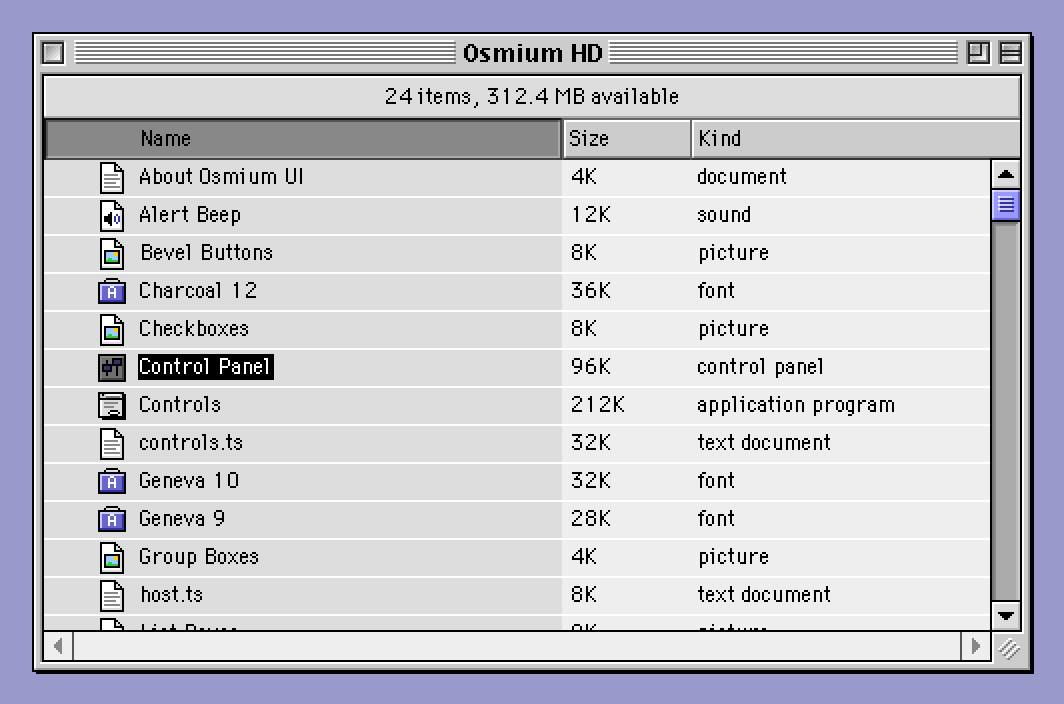
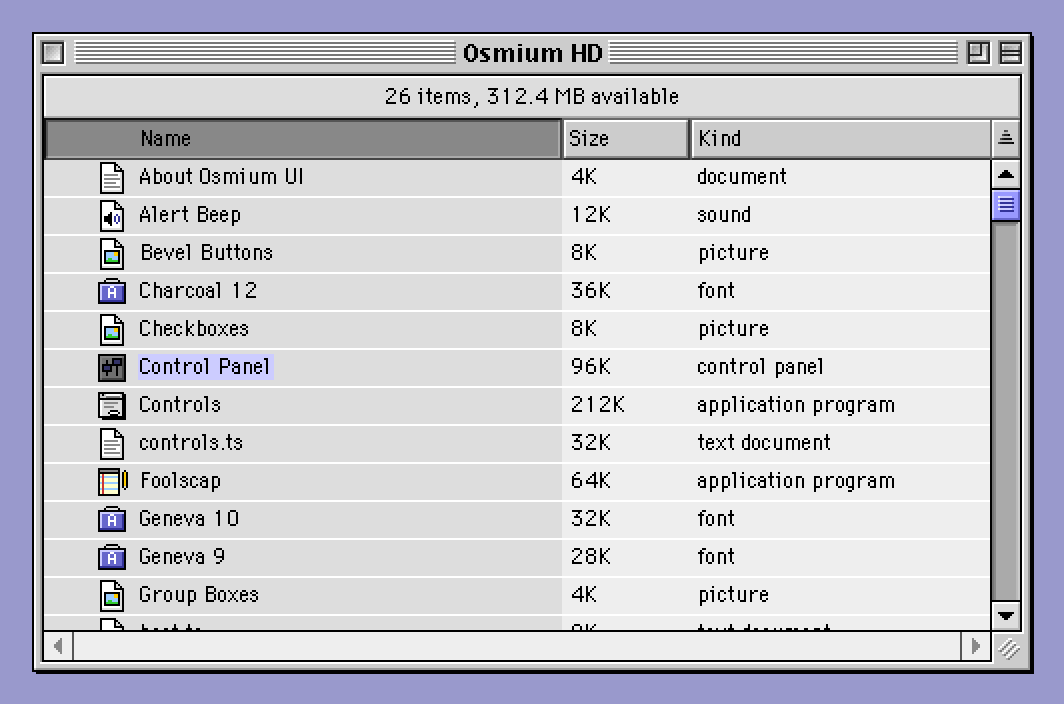
Document the text view, menu keys and Foolscap
The README gains Text view and Menu bar sections (the APIs, what the
browser allows with the clipboard, and what differs from TextEdit and
the Mac OS 8 menu bar), Geneva 12 among the fonts, a demo tour that
covers every window, and drops keyboard equivalents from "Not included
yet". The CHANGELOG lists the additions under Unreleased.

The demo's desktop and Finder images are regenerated: the Finder lists
two more items and the desktop two more icons. A new image shows
Foolscap's Read Me. Rendered the same way at a6e98aa, before this
work, the controls and appearance images reproduce the committed ones
with 0 differing pixels, and they stay; the panel image, already out
of date there, is left for a separate refresh. The Read Me also points
to the Apple menu, and the About window lists Geneva 12.

Claude-Session: https://claude.ai/code/session_014fhnVpnnDZT2sjDkM4thWd

diff --git a/demo/documents.ts b/demo/documents.ts
@@ -23,7 +23,7 @@ Windows
 Drag a window by its title bar. The close box (left) puts it away; its desktop icon brings it back. The collapse box (far right) folds it up to its title bar. The Osmium HD and Foolscap windows also have a zoom box and a grow box in their bottom-right corner. Windows behind the front one draw inactive: gray frame, no stripes, no boxes. A click in one brings it forward. Special > Clean Up puts every window back where it started.
 
 The menu bar
-Menus stay open after a click and follow the pointer, or you can drag to an item and let go. Items with a keyboard equivalent show it at the right: hold down the Command key (Control on Windows and Linux) and type the letter. While a Foolscap window is in front, the menu bar holds Foolscap's own menus; click the desktop or another window and the Finder's come back.
+Menus stay open after a click and follow the pointer, or you can drag to an item and let go. Items with a keyboard equivalent show it at the right: hold down the Command key (Control on Windows and Linux) and type the letter. While a Foolscap window is in front, the menu bar holds Foolscap's own menus; click the desktop or another window and the Finder's come back. The crystal at the left end of the menu bar is the Apple menu: it lists every window in the demo, whichever application is in front.
 
 Balloon Help
 Choose Show Balloons from the Help menu, then rest the pointer on a control, a window's title bar or a desktop icon. Choose Hide Balloons to stop.

diff --git a/demo/about.ts b/demo/about.ts
@@ -12,7 +12,7 @@ const FIELDS: readonly [label: string, value: string][] = [
   ["Kind", "user interface kit"],
   ["Version", OSMIUM_VERSION],
   ["License", "The Unlicense (public domain)"],
-  ["Fonts", "Charcoal 12, Geneva 10, Geneva 9"],
+  ["Fonts", "Charcoal 12, Geneva 12, 10 and 9"],
   ["Where", "github.com/L-K-M/osmium-ui"],
 ];
 

diff --git a/README.md b/README.md
@@ -6,7 +6,7 @@
 The Mac OS 8 look, pixel for pixel, for web pages and WKWebView apps.
 
 <p align="center">
-  <img src="docs/demo@2x.png" width="1024" alt="The Osmium UI demo: a Mac OS 8 desktop with a dialog full of controls, a Finder list view, a control panel and an About window">
+  <img src="docs/demo@2x.png" width="1024" alt="The Osmium UI demo: a Mac OS 8 desktop with a dialog full of controls, a Finder list view, a control panel, an About window and desktop icons">
 </p>
 
 Osmium UI recreates the classic Mac OS 8 appearance in HTML and CSS:
@@ -30,7 +30,9 @@ information window (class `osm-info`, whose text dims when inactive).
 - Push buttons, including the default button's ring, pressed and dimmed.
 - Checkboxes and sliders with tick marks.
 - Pop-up buttons with their menus, and separators in them.
-- The menu bar, with pull-down menus.
+- The menu bar, with pull-down menus, check marks and keyboard
+  equivalents, and menus an application swaps in while its window is in
+  front.
 - Group boxes and bevel buttons.
 - Tab controls, measured from Mac OS 8.5's Appearance control panel.
 - Scroll bars, vertical and horizontal, and list boxes.
@@ -40,6 +42,9 @@ information window (class `osm-info`, whose text dims when inactive).
   of rows kept up to date by key.
 - Progress bars, separators, wells, and label/value rows.
 - Edit text fields, one-line and multi-line.
+- Document text views: a document window's wrapped text with its scroll
+  bar, as TeachText and SimpleText show it, with TextEdit's undo, its
+  highlighting and read-only documents.
 - Balloon Help: help balloons measured from Mac OS 8.0, with the Help
   menu's Show Balloons / Hide Balloons command.
 - Alert boxes: stop, caution and note alerts, modal or movable. The
@@ -51,10 +56,12 @@ information window (class `osm-info`, whose text dims when inactive).
 colors, from Apple's own tables for Mac OS 8.0 and 8.5, or any color
 (see [Accent and highlight colors](#accent-and-highlight-colors)).
 
-**Fonts.** Charcoal 12, Geneva 10 and Geneva 9 as bitmap strikes. They
-are compiled into TrueType fonts in the browser at startup, with
-QuickDraw-style synthesized bold for Charcoal 12 and Geneva 10, so
-text renders with the original glyphs on any platform.
+**Fonts.** Charcoal 12, Geneva 12, Geneva 10 and Geneva 9 as bitmap
+strikes. They are compiled into TrueType fonts in the browser at
+startup, with QuickDraw-style synthesized bold, so text renders with
+the original glyphs on any platform. Geneva 12 was captured for ASCII
+and ten punctuation marks (curly quotes, bullet, ellipsis, dashes, © and
+™); other characters fall through to the next font.
 
 **Behavior.**
 - Press tracking: releasing outside a control cancels.
@@ -109,14 +116,27 @@ npm run demo
 
 This builds the demo and serves it locally: a Mac OS 8 desktop with a
 dialog full of controls, a Finder list view, a control panel, a tabbed
-Appearance window and a File Sharing window full of edit text (open
-them from their desktop icons), and an About window.
+Appearance window that sets the accent and highlight colors, a File
+Sharing window full of edit text, an Alerts window and an About window
+(open them from their desktop icons or the crystal menu at the left of
+the menu bar). Double-click the Read Me icon for a tour: it lists every
+part of the kit and where the demo shows it.
+
 You can drag the windows, click to bring them to the front, close them
-and windowshade them, and zoom and resize the Finder window.
-Choose Show Balloons from the Help menu, then rest the pointer on a
-control, a window's title bar or a desktop icon to see its help balloon.
-The Alerts window (open it from its desktop icon) and Special > Empty
-Trash… bring up alerts.
+and windowshade them, and zoom and resize the Finder and Foolscap
+windows. In the Finder window, click a column header to sort, the
+button above the scroll bar to reverse the order, and drag the lines
+between headers to resize columns. Choose Show Balloons from the Help
+menu, then rest the pointer on a control, a window's title bar or a
+desktop icon to see its help balloon. The Alerts window and Special >
+Empty Trash… bring up alerts.
+
+Foolscap (its desktop icon) is a small text editor in the manner of
+TeachText, built on the text view. While its window is in front the
+menu bar shows its own menus, with keyboard equivalents: New, Open…,
+Close (which asks about unsaved changes), Save and Save As… (which
+download a text file), Undo, Cut, Copy, Paste, and fonts and sizes. The
+Read Me is a read-only document: typing in it brings up an alert.
 
 On a Mac with the Xcode command line tools, the same pages run as
 native windows:
@@ -194,7 +214,7 @@ window.
 | Checkbox | `<label class="osm-checkbox"><input type="checkbox"> Title</label>` | `trackHighlight(label)` |
 | Slider | `<div class="osm-slider"><input type="range" min="0" max="100"></div>` (125px wide, 100 steps) | native input |
 | Pop-up button | `<button class="osm-popup">`, with an optional `<label class="osm-popup-title">` | `mountPopup(el, { items, selected, onChange })`; put `MENU_SEPARATOR` among the items for a dividing line |
-| Menu bar | a `<div>` along the top of the page | `mountMenuBar(el, [{ title, items: () => [{ title, action }, MENU_SEPARATOR, …] }])`; an item without an `action` is dimmed, and `icon` names a 16x16 sprite to show instead of a title |
+| Menu bar | a `<div>` along the top of the page | `mountMenuBar(el, [{ title, items: () => [{ title, action, key }, MENU_SEPARATOR, …] }])`; an item without an `action` is dimmed, `key` is its keyboard equivalent, `checked` draws a check mark, and `icon` names a 16x16 sprite to show instead of a title; see [Menu bar](#menu-bar) |
 | List box | `<div>` with a height | `mountList(el, { rowHeight, label, onSelect })`, then `setRows(rows)`. `scrollbars: "both"` adds a horizontal bar (give the rows a `min-width`), and `header` keeps a list view's column headers scrolled with the rows |
 | Scroll bar | a positioned `host` with a scrolling child `view` that leaves 15px on the right (or, for a horizontal bar, at the bottom) and hides its native scroll bars (as `mountList` sets up) | `attachScrollbar(host, view, lineHeight)`, or `attachScrollbar(host, view, step, "horizontal")` |
 | Bevel button | `<button class="osm-bevel">`, a 32x32 icon in `--osm-icon`, `osm-selected` for pushed in, a `.osm-bevel-caption` below. 40x40 as in Monitors & Sound; set an even `width` for wider ones, such as Desktop Pictures' 54px | `trackPress(el, action)` |
@@ -207,13 +227,15 @@ window.
 | Label/value rows | `<div class="osm-fields">` of `.osm-label` and value pairs | none |
 | Separator, well | `<div class="osm-separator">`, `<div class="osm-well">` | none |
 | Edit text | `<input class="osm-edit">` (22px), add `osm-compact` for 20px; `<div class="osm-edit-area"><textarea></textarea></div>` for several lines | native input; `mountTextArea(el)` adds a scroll bar to a multi-line field; `setEnabled(field, on)` |
+| Text view | a `<div>` filling a document window's content | `mountTextView(el, { label, text, mode, font })`; see [Text view](#text-view) |
 | Help balloon | none: attach it to any element | `attachBalloon(el, { content })`, and `balloonMenuItem()` in a Help menu; see [Balloon Help](#balloon-help) |
 | Alert | built for you | `showAlert({ kind, message, explanation, buttons })`, see [Alerts](#alerts) |
 
 Disable a checkbox, slider or edit text with `setEnabled(input, false)`
 so the whole control dims. The fonts are available as `osm-system` (Charcoal
-12), `osm-small` (Geneva 10) and `osm-caption` (Geneva 9), or as the
-`--osm-font-*` custom properties.
+12), `osm-small` (Geneva 10), `osm-caption` (Geneva 9) and `osm-document`
+(Geneva 12 on 16px lines, the document font), or as the `--osm-font-*`
+custom properties.
 
 The demo's source (`demo/`) uses every control. It's the best place
 to see complete markup.
@@ -297,6 +319,138 @@ matches Mac OS 9.0 Date Formats. Some details differ:
   text.
 - Selected text is white on 010101 rather than black: WebKit lightens
   an opaque black selection to 333333.
+
+### Text view
+
+<p align="center">
+  <img src="docs/foolscap.png" width="512" alt="A document window titled Read Me: Geneva 12 text wrapped to the window, a phrase selected, a vertical scroll bar and a blank strip along the bottom beside the grow box">
+</p>
+
+`mountTextView` turns an element into a document window's text, the way
+TeachText and SimpleText show it in Mac OS 8: white, wrapped to the
+window's width with no horizontal scrolling, a vertical scroll bar whose
+black edges lie on the content's edges, and a blank strip along the
+bottom that leaves the corner to the window's grow box. Give it the
+whole content area of a window:
+
+```ts
+import { mountTextView, mountWindow, showAlert } from "osmium-ui";
+
+const win = mountWindow(el, { title: "Read Me", onGrow, onZoom, onClose });
+const host = document.createElement("div");
+host.style.cssText = "position: absolute; inset: 0";
+win.content.append(host);
+const view = mountTextView(host, {
+  label: "Read Me",
+  text: readMe,
+  mode: "read-only",       // or "editable" (the default)
+  font: "geneva-12",       // "geneva-10", "geneva-9", "charcoal-12"
+  maxLength: 32767,        // TextEdit's own limit
+  onChange: () => { dirty = true; },
+  onLimit: () => showAlert({ kind: "stop", message: "The document is full." }),
+  onRejectedEdit: () => showAlert({ kind: "stop", modality: "movable",
+    message: "This document can only be read." }),
+});
+```
+
+The text is a native `<textarea>` (`view.textarea`), so input methods,
+the browser's clipboard shortcuts and assistive technology work as in
+any text field. The view adds what a TeachText-style application needs
+for its Edit menu:
+
+- `undo()` is TextEdit's single level of undo, as a Mac OS 8
+  application's Undo command offers it: it takes back the last edit (a
+  run of typing, a cut, a paste, a clear, a drop) and redoes it when
+  chosen again. Command-Z (Control-Z) and the browser's own Undo come to
+  it too. `canUndo` says whether there is anything to undo. `setText`
+  starts over.
+- `cut()`, `copy()` and `paste()` use the clipboard as far as the
+  browser allows, and reject rather than pretend when it refuses: a
+  script may write to the clipboard only while handling the reader's own
+  click or keystroke, and may read it only with the reader's permission
+  (a prompt, or a Paste button of the browser's own). Chromium asked for
+  that permission in testing, and its headless mode leaves the prompt
+  unanswered. The keyboard's Command-X, C and V are the browser's own
+  and need no permission, so a menu bar leaves them to it (see
+  `keyDispatch` below). `clear()` deletes the selection, `selectAll()`
+  selects everything, and `hasSelection` says whether anything is
+  selected.
+- `"read-only"` shows a document the way SimpleText shows its read-only
+  (ttro) documents: no caret, and every attempt to type goes to
+  `onRejectedEdit`, where SimpleText puts up a stop alert. Unlike
+  SimpleText, its text can still be selected and copied, which readers
+  and assistive technology need.
+- A double-click selects a word without the space after it, as TextEdit
+  does, in browsers that would take the space too.
+- `setMode`, `setFont` and `setText` let one view show one document
+  after another.
+
+The geometry is measured from SimpleText 1.4 on Mac OS 8.0 in an
+emulator: the text rectangle 4px inside the content area and 4px short
+of the scroll bar and the strip, the first glyph 1px inside it, 16px
+lines. Rendered in the same window with Geneva 12, typed text, a wrapped
+long line, a window resized narrower and an inactive window's framed
+selection match the captures with 0 differing pixels. In an inactive
+window the text stays black, the caret goes, the scroll bar is blank
+(white inside its 55 edges) and a selection is framed in a 1px outline,
+TextEdit's outline highlighting.
+
+What differs from TextEdit:
+
+- The browser draws the caret, one pixel right of TextEdit's.
+- While the text has the keyboard the browser draws the selection too:
+  it covers only the selected characters, where TextEdit starts a line's
+  highlight at the text rectangle's left edge and runs it on to the
+  right edge when the selection goes past the line's end. The view draws
+  TextEdit's region itself where the browser draws none: framed in an
+  inactive window, and filled while a menu has the keyboard.
+- The outline is black whatever the highlight color; it was captured
+  only with the Black & White highlight. The bottom strip's line turns
+  55 in an inactive window, which wasn't captured.
+- Tab moves the keyboard to the next control, as in any web page, where
+  TextEdit types a tab. Plain text only: no styles.
+
+### Menu bar
+
+`mountMenuBar` returns a handle whose `setMenus` replaces the menus, so
+an application can show its own while its window is in front, as the
+demo's Foolscap does. A menu item's `key` is its keyboard equivalent,
+drawn after the command key symbol in the columns SimpleText's menus use
+in Mac OS 8.0:
+
+```ts
+const bar = mountMenuBar(el, finderMenus);
+bar.setMenus([
+  { title: "Edit", items: () => [
+    { title: "Undo", key: "Z", ...(view.canUndo ? { action: view.undo } : {}) },
+    MENU_SEPARATOR,
+    // Typed while the text has the keyboard, Command-C stays the
+    // browser's own copy, which needs no clipboard permission.
+    { title: "Copy", key: "C", action: () => void view.copy(),
+      keyDispatch: textHasKeyboard() ? "browser" : "action" },
+    { title: "Select All", key: "A", action: () => view.selectAll() },
+  ] },
+  { title: "Size", items: () => [
+    { title: "12", checked: true, action: () => setSize(12) },
+  ] },
+]);
+```
+
+Command and the key (Control where there is no Command key; pass
+`{ commandKey: "meta" }` or `"control"` as the third argument to choose)
+chooses the item and flashes its menu's title. Letters match without
+Shift; another character matches as typed. Only an enabled item takes
+its key, so a dimmed item, and any key no item claims, leaves the
+keystroke to the browser and to text fields. Keys a control already
+handled (`preventDefault`), keys typed while an alert is up and keys
+aimed at an `inert` menu bar (under your own modal dialog) are left
+alone too. Browsers keep some keys for themselves and never pass them
+to a page: in Chromium, for one, Control-N, Control-T and Control-W
+(Command on a Mac) open and close windows and tabs.
+
+Menu bar menus leave 9px after an item without a key and fit a key
+equivalent in 32px more, as SimpleText's File, Edit and Help menus do;
+rendered, they match those menus with 0 differing pixels.
 
 ### Balloon Help
 
@@ -737,7 +891,7 @@ ResizeObserver and CSS `border-image`.
 
 ## Not included yet
 
-Radio buttons and keyboard equivalents shown in menus.
+Radio buttons.
 
 ## Development
 

diff --git a/CHANGELOG.md b/CHANGELOG.md
@@ -2,6 +2,59 @@
 
 ## Unreleased
 
+- Add text views (`mountTextView`): a document window's text as
+  TeachText and SimpleText show it in Mac OS 8, on a native textarea.
+  White, wrapped to the width with no horizontal scrolling, a vertical
+  scroll bar over the content's edges and a blank 15px strip along the
+  bottom beside the grow box. The geometry is measured from SimpleText
+  1.4 on Mac OS 8.0 in an emulator; typed text, a wrapped long line, a
+  resized window and an inactive window's framed selection render with
+  0 differing pixels against the captures. The view adds TextEdit's
+  single-level undo (by edit groups, undoing again redoes; Command-Z and
+  the browser's Undo go to it), `"read-only"` documents that report
+  typing to `onRejectedEdit`, a `maxLength` reported to `onLimit`, cut,
+  copy, paste and clear that reject when the browser refuses the
+  clipboard, double-click selection without the trailing space, and
+  TextEdit's highlight where the browser draws none: an outline in an
+  inactive window, a fill while a menu has the keyboard. Not TextEdit:
+  the browser's caret sits 1px right, the browser's own selection
+  doesn't run to the text rectangle's edges, Tab moves the focus, the
+  text is plain, and a read-only document's text can be selected and
+  copied. Not captured: the inactive bottom strip (55, like the frame)
+  and the outline with a colored highlight (black).
+- Add Geneva 12 (`--osm-font-document`, `.osm-document`), the document
+  font of TeachText and SimpleText, extracted from SimpleText 1.4's
+  text in Mac OS 8.0: ASCII and ten punctuation marks; a separately
+  captured line matches with 0 differing pixels. Its leading is folded
+  into the descent for TextEdit's 16px line. `installOsmium` registers
+  it with synthesized bold.
+- Menu bars take keyboard equivalents: a `MenuItem`'s `key` is drawn
+  after the command key symbol, as SimpleText 1.4's menus draw it, and
+  Command-key (Control-key where there is no Command key; `commandKey`
+  chooses) chooses the item, flashing its title. Only enabled items
+  claim keys, so browser shortcuts and text fields keep the rest; keys
+  a control handled, keys under an alert and keys aimed at an inert
+  menu bar are left alone. `keyDispatch: "browser"` leaves a key to the
+  browser (Cut, Copy and Paste in a text field). Items can show a check
+  mark (`checked`).
+- `mountMenuBar` returns a handle (`OsmiumMenuBar`) whose `setMenus`
+  replaces the menus, for an application's own menus while its window
+  is in front. Callers that ignored the old `void` result are unaffected.
+- Menu bar menus leave 9px after an item without a key, 3px less than
+  before (pop-up menus keep 12): SimpleText's File, Edit and Help menus,
+  now reproduced with 0 differing pixels, measure so.
+- Charcoal 12 has the command key symbol (U+2318), measured from
+  SimpleText's menus. Its advance can't be read from a menu; 10 is
+  chosen, which puts the key letter on its measured pen.
+- `attachScrollbar` takes a function for its arrow step, read at each
+  step (a line height that follows the font).
+- The demo has Foolscap, a text editor in the manner of TeachText 7.0,
+  with its own menus in the menu bar while its window is in front, a
+  movable modal Open dialog of sample documents (and text files from
+  disk), Save and Save As that download a text file, a Save Changes
+  alert, fonts and sizes, and a read-only Read Me that tours the kit.
+  The Finder's menus have keyboard equivalents, and its window lists
+  Foolscap and the Read Me. The native demo has an editor page.
 - Add accent and highlight colors (`setAppearance`, `getAppearance`,
   `nearestAccent`): Mac OS 8.0's 18 accent colors and 8.5's 20
   variations, and both releases' highlight colors, transcribed from
